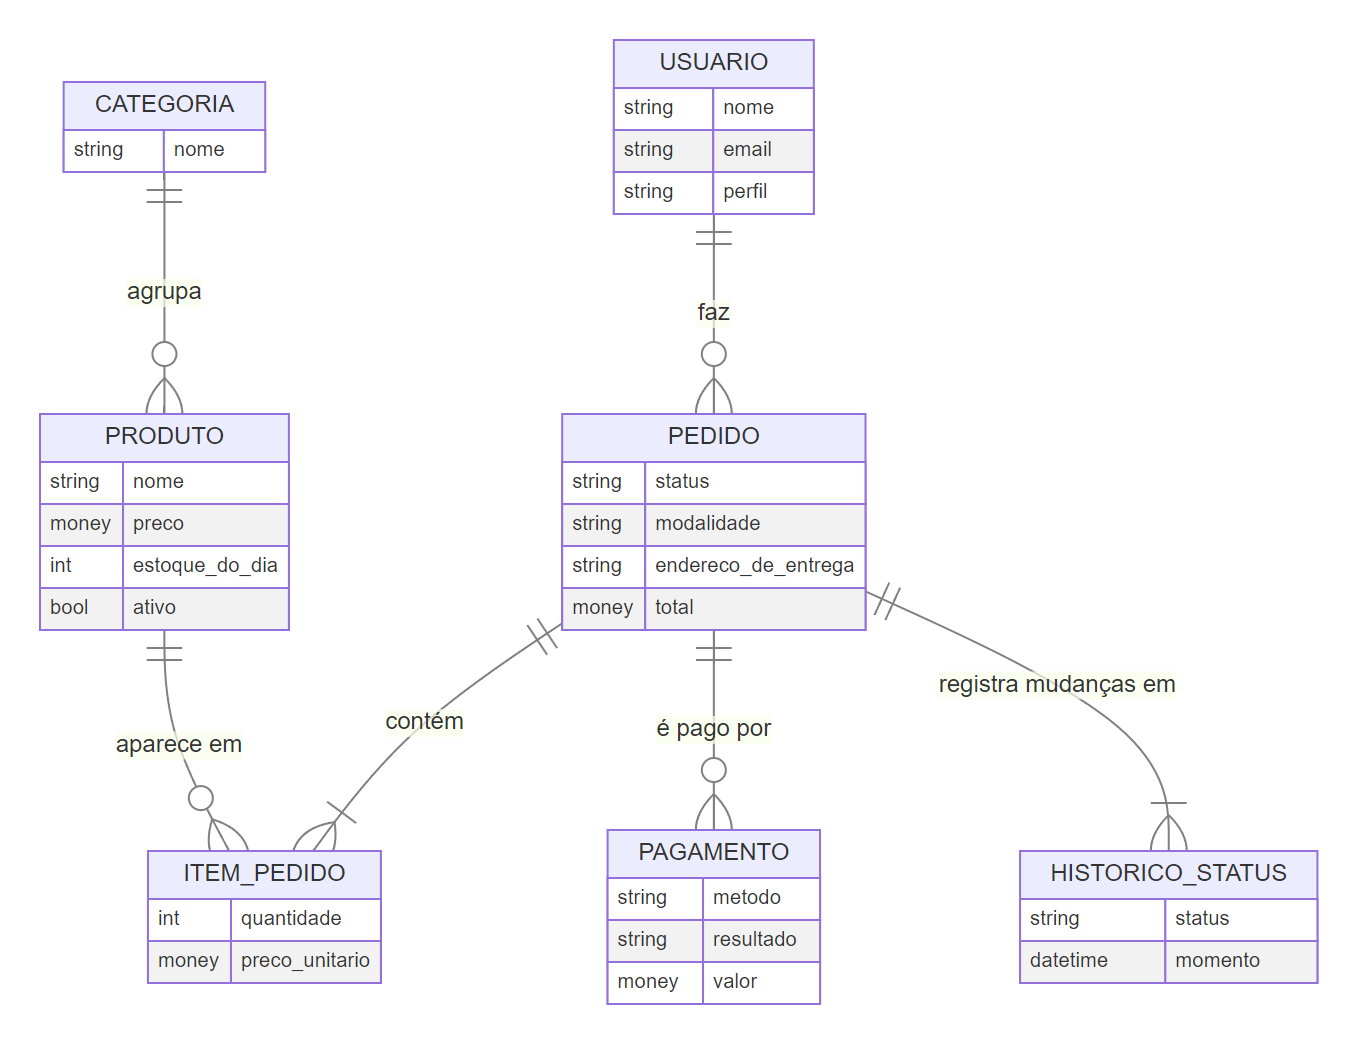
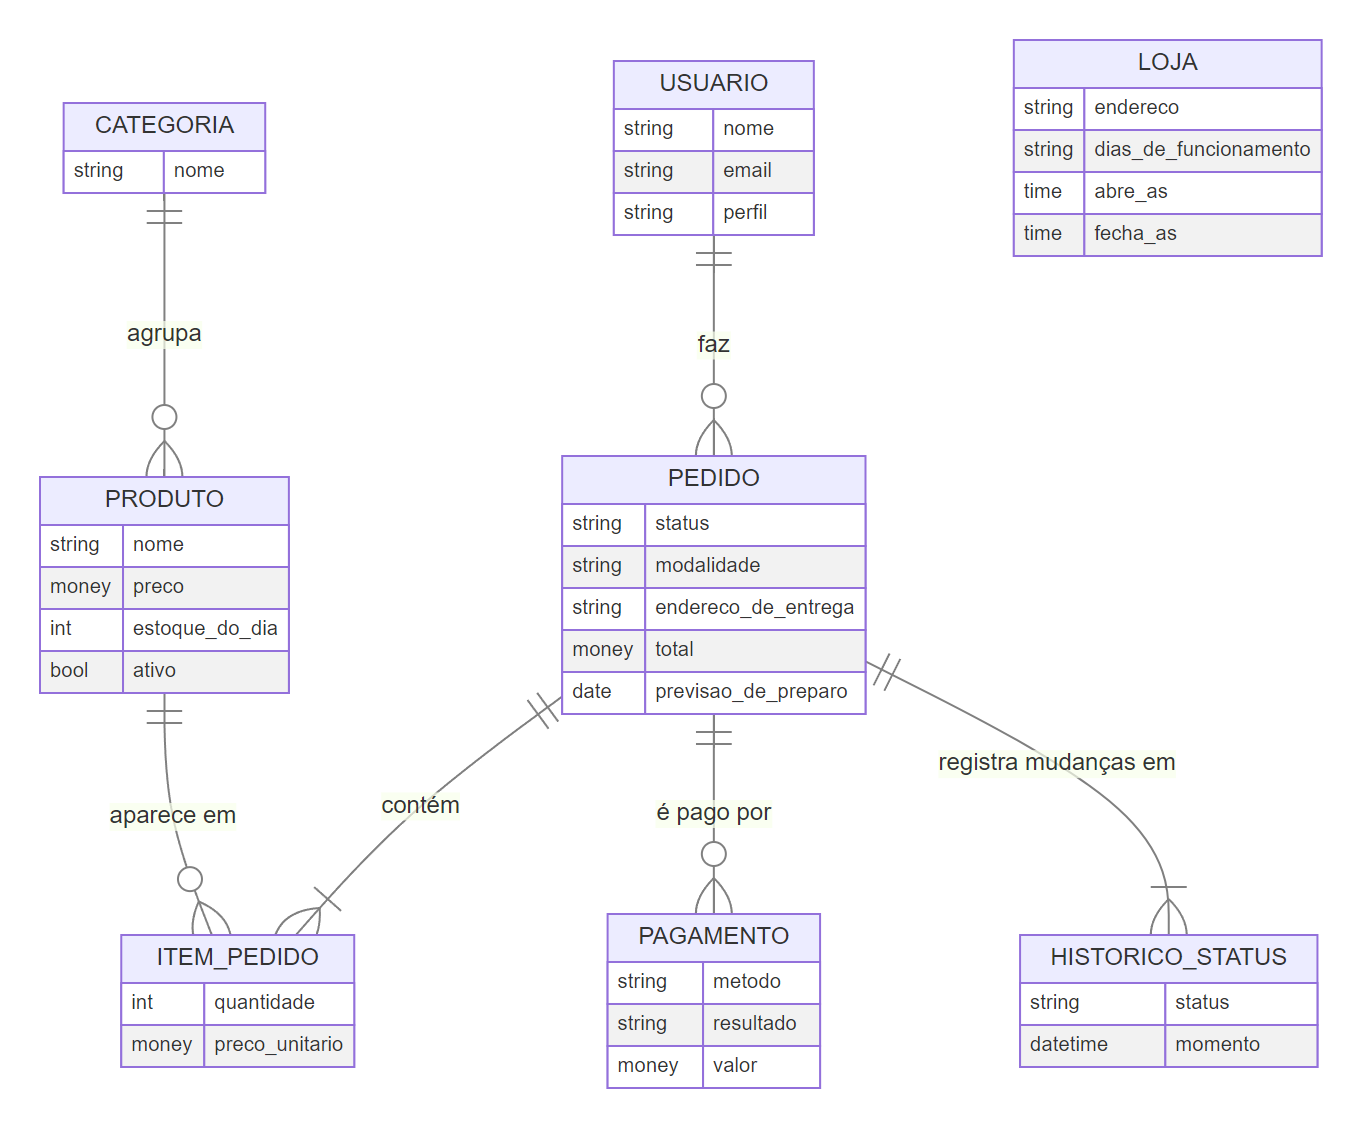
Atualiza diagramas e capturas de tela com as telas novas
Modelo conceitual, diagrama de classes e arquitetura com a entidade Loja
e os serviços de horário, CEP e estatísticas. O script de capturas fixa
o relógio para mostrar a loja aberta e fechada.

diff --git a/app/static/css/estilo.css b/app/static/css/estilo.css
@@ -165,7 +165,7 @@ a.pedido:hover{box-shadow:0 3px 10px rgba(17,47,36,.18)}
 .passo.pend{color:#8a7d78}
 
 /* ---------- admin ---------- */
-.admin-abas{display:flex;gap:8px;margin-bottom:12px;overflow-x:auto;padding-bottom:4px}
+.admin-abas{display:flex;flex-wrap:wrap;gap:8px;margin-bottom:12px}
 .admin-abas a{white-space:nowrap;padding:8px 16px;border-radius:10px;font-size:15px;background:#fff;border:1px solid var(--borda);text-decoration:none;color:var(--texto)}
 .admin-abas a.ativo{background:var(--verde-profundo);color:#fff}
 .titulo-acao{display:flex;justify-content:space-between;align-items:center;gap:10px;flex-wrap:wrap}

diff --git a/scripts/capturar_telas.py b/scripts/capturar_telas.py
@@ -10,6 +10,7 @@ import pathlib
 import sys
 import tempfile
 import threading
+from datetime import date, datetime, time
 
 RAIZ = pathlib.Path(__file__).resolve().parent.parent
 TEMP = pathlib.Path(tempfile.mkdtemp(prefix="lacakes-telas-"))
@@ -21,11 +22,19 @@ from werkzeug.serving import make_server  # noqa: E402
 
 from app import create_app  # noqa: E402
 from app.seed import popular  # noqa: E402
+from app.services import loja as servico_loja  # noqa: E402
 
 DESTINO = RAIZ / "docs" / "desenvolvimento" / "img" / "telas"
 PORTA = 5077
 BASE = f"http://127.0.0.1:{PORTA}"
+# Relógio das capturas: hoje às 10h (loja aberta) e hoje às 20h (loja fechada). Segunda a sábado.
+HOJE = date.today()
+ABERTA, FECHADA = datetime.combine(HOJE, time(10)), datetime.combine(HOJE, time(20))
 CARTAO = {"nome": "ANA SOUZA", "ok": "4111111111111111", "recusado": "4111111111110000", "validade": "12/30", "cvv": "123"}
+
+
+def fixar_relogio(momento):
+    servico_loja.relogio = lambda: momento
 
 
 def subir_servidor():
@@ -40,6 +49,7 @@ def subir_servidor():
 
 def main():
     DESTINO.mkdir(parents=True, exist_ok=True)
+    fixar_relogio(ABERTA)
     servidor = subir_servidor()
     with sync_playwright() as p:
         nav = p.chromium.launch(channel="msedge", headless=True)
@@ -62,8 +72,10 @@ def main():
                 foto("06-login-invalido")
 
         pg.goto(BASE)
+        foto("23-tela-inicial")
+        pg.goto(f"{BASE}/vitrine")
         foto("01-vitrine")
-        pg.goto(f"{BASE}/?categoria=2")
+        pg.goto(f"{BASE}/vitrine?categoria=2")
         foto("02-vitrine-filtro-recheados")
         pg.goto(f"{BASE}/produto/3")
         foto("03-detalhe-produto")
@@ -91,6 +103,9 @@ def main():
         pg.goto(f"{BASE}/carrinho/")
         foto("08-carrinho")
         pg.goto(f"{BASE}/checkout")
+        pg.fill("#cep", "17201-000")
+        pg.wait_for_selector("[data-cep-status].ok-texto", timeout=10000)
+        foto("24-checkout-cep-preenchido")
         pg.fill("#cep", "13010-000")
         pg.fill("#logradouro", "Rua das Palmeiras")
         pg.fill("#numero", "85")
@@ -147,11 +162,47 @@ def main():
         pg.goto(pedido_url)
         foto("21-acompanhamento-em-preparo")
 
+        # Loja fechada: aviso nas telas e pedido com previsão para o próximo dia de funcionamento
+        fixar_relogio(FECHADA)
+        pg.goto(f"{BASE}/vitrine")
+        foto("27-loja-fechada-vitrine")
+        pg.goto(f"{BASE}/produto/2")
+        pg.fill("#quantidade", "2")
+        pg.click("main form.form-qtd button[type=submit]")
+        pg.goto(f"{BASE}/checkout")
+        pg.click("text=Retirar na loja")
+        pg.click("aside button[type=submit]")
+        pg.wait_for_url("**/pagamento")
+        pg.goto(pg.url + "?metodo=PIX")
+        pg.click("main button:has-text('Já paguei')")
+        pg.wait_for_url("**/confirmado")
+        foto("28-pedido-loja-fechada")
+
+        ctx.clear_cookies()
+        entrar("admin@lacakes.test", "Admin@2026")
+        pg.goto(f"{BASE}/admin/vendas")
+        foto("25-admin-vendas")
+        pg.goto(f"{BASE}/admin/loja")
+        foto("26-admin-dados-da-loja")
+        fixar_relogio(ABERTA)
+
         desk = nav.new_page(viewport={"width": 1280, "height": 800}, device_scale_factor=1)
-        desk.goto(BASE)
+        desk.goto(f"{BASE}/vitrine")
         desk.wait_for_timeout(150)
         desk.screenshot(path=str(DESTINO / "22-vitrine-computador.png"))
         print("ok 22-vitrine-computador")
+        desk.goto(BASE)
+        desk.wait_for_timeout(150)
+        desk.screenshot(path=str(DESTINO / "29-tela-inicial-computador.png"), full_page=True)
+        print("ok 29-tela-inicial-computador")
+        desk.goto(f"{BASE}/login")
+        desk.fill("#email", "admin@lacakes.test")
+        desk.fill("#senha", "Admin@2026")
+        desk.click("main button[type=submit]")
+        desk.goto(f"{BASE}/admin/vendas")
+        desk.wait_for_timeout(150)
+        desk.screenshot(path=str(DESTINO / "30-admin-vendas-computador.png"), full_page=True)
+        print("ok 30-admin-vendas-computador")
         nav.close()
     servidor.shutdown()
 
